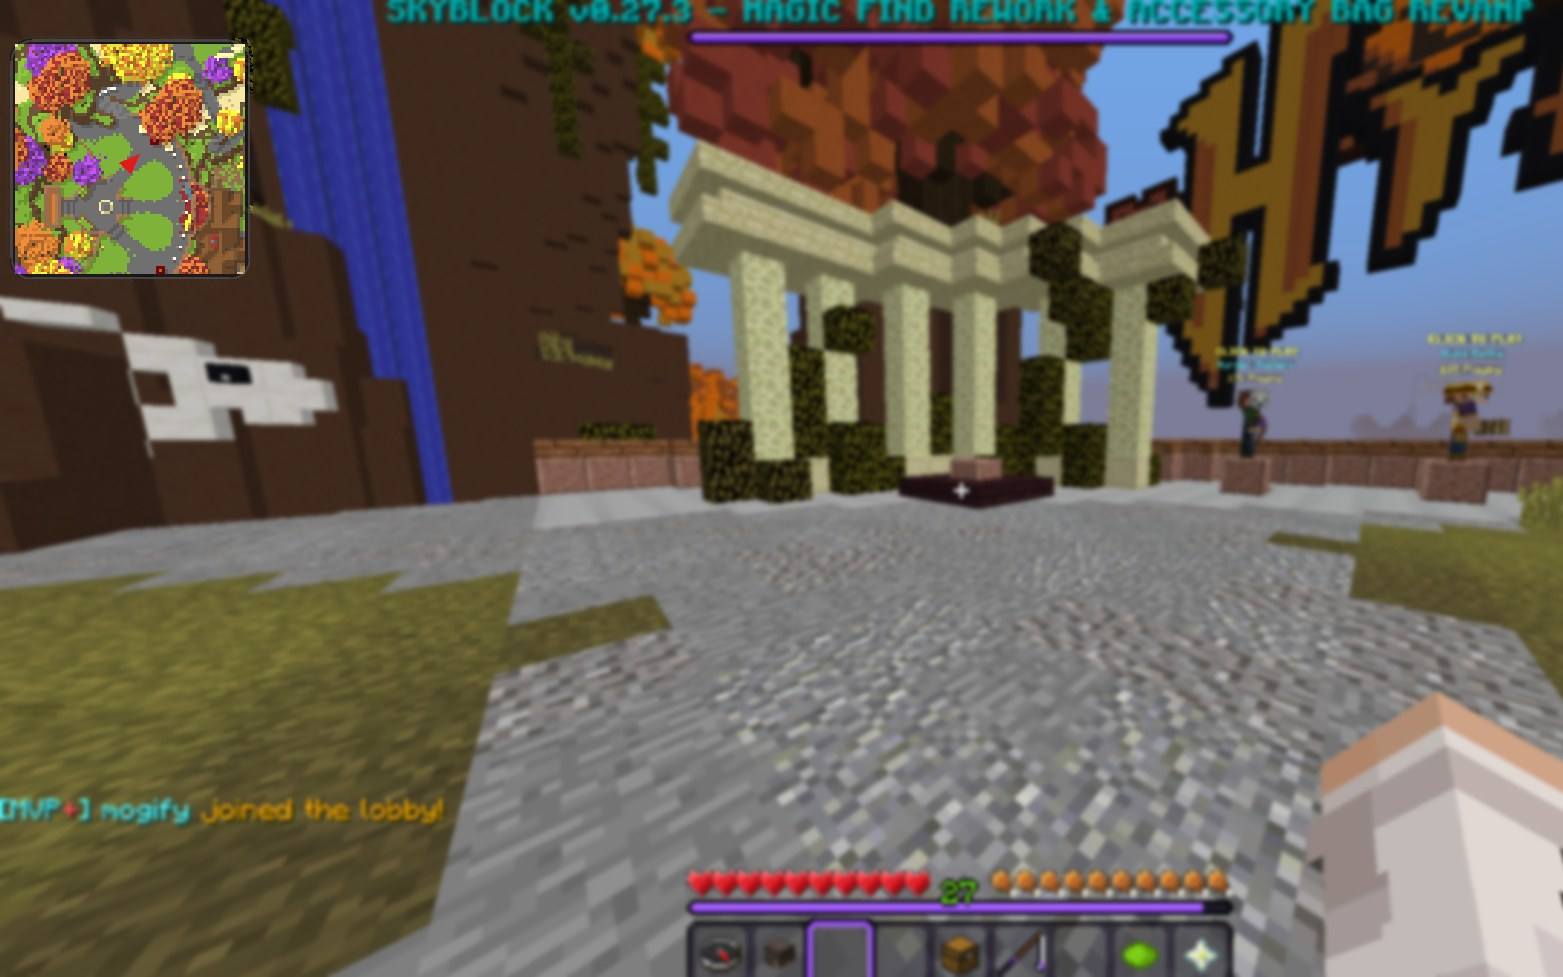
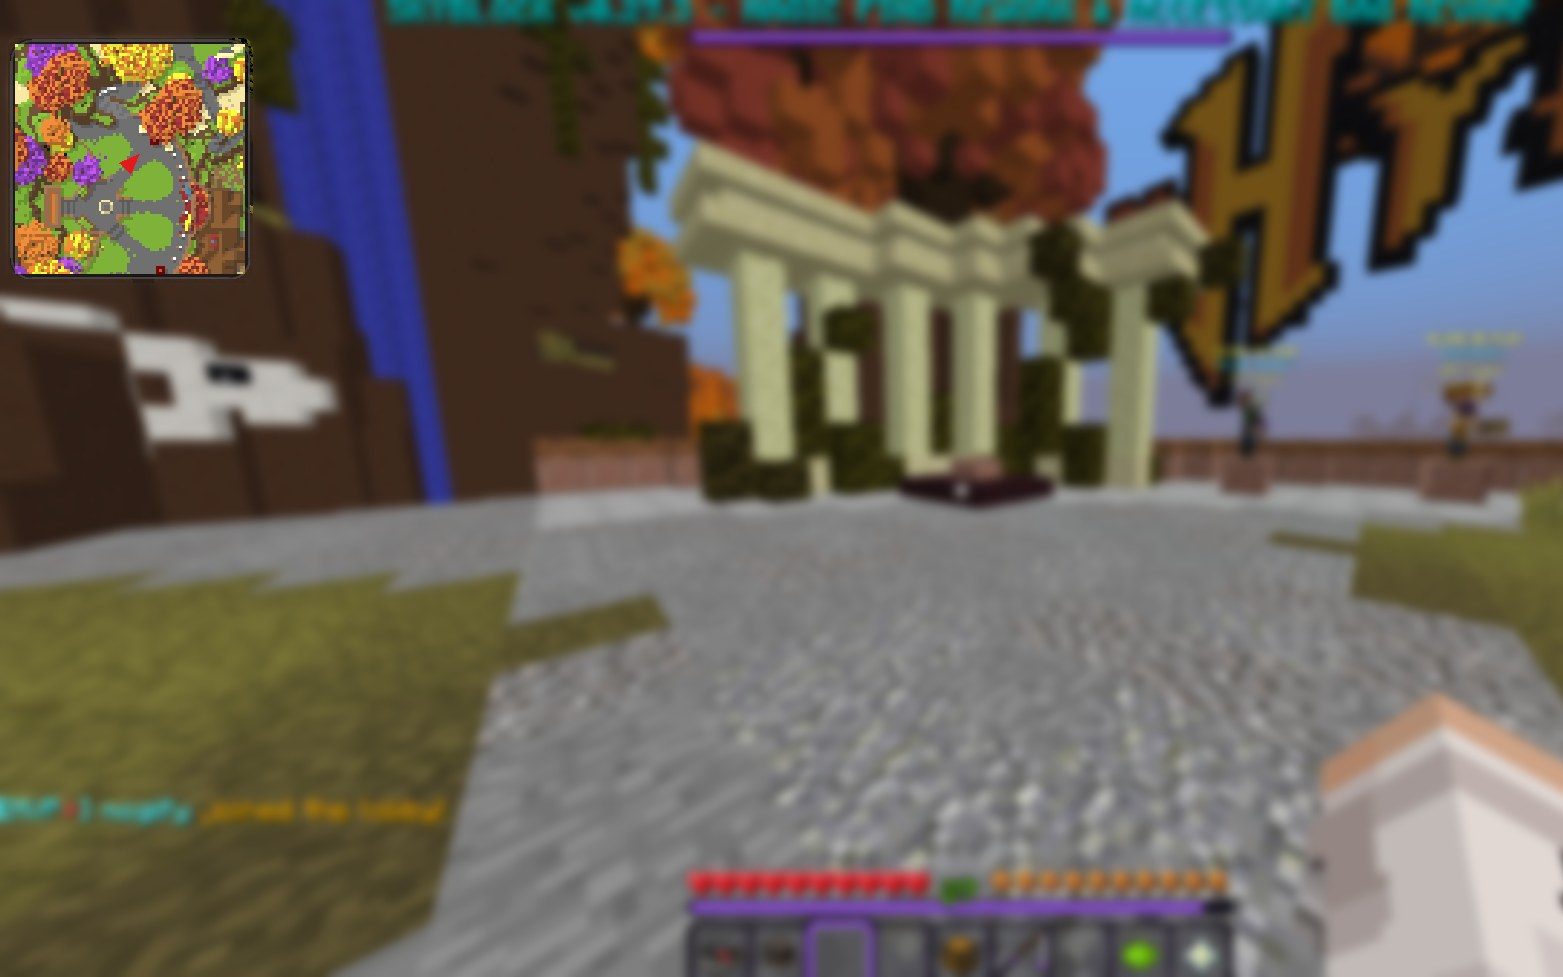
Site: menu shot with blur, stronger blur on minimap shot, showcase without Cinematic/Nearby/Time
Claude-Session: https://claude.ai/code/session_01AkdELL3XXDNhL6QYx5Eq6p

diff --git a/site/index.html b/site/index.html
@@ -11,13 +11,13 @@
 </div></header>
 
 <section class="xs" id="showcase"><div class="wrap"><div class="xh"><span class="kick rv">See it</span><h2 class="rv" style="--d:1">Built to look good in game.</h2><p class="rv" style="--d:2">A quick look at the launcher and some of the mods.</p></div>
-<div class="sc rv"><div class="sc-t" role="tablist"><button role="tab" data-c="One window for accounts, versions, news and settings.">Launcher<i></i></button><button role="tab" data-c="A clean minimap with waypoints, right on your HUD.">Minimap<i></i></button><button role="tab" data-c="Mark places and see them in the world from far away.">Waypoints<i></i></button><button role="tab" data-c="A smooth cinematic camera for clips and trailers.">Cinematic<i></i></button><button role="tab" data-c="Motion blur that you can tune or turn off.">Motion blur<i></i></button><button role="tab" data-c="See who is close to you at a glance.">Nearby<i></i></button><button role="tab" data-c="Change the time of day just for you.">Time<i></i></button></div><div class="sc-v"><img src="/launcher-home.jpg" alt="Launcher" width="960" height="600" ><img src="/mod-minimap.jpg?v=2" alt="Minimap" width="960" height="600" loading="lazy"><img src="/mod-waypoints.jpg" alt="Waypoints" width="960" height="600" loading="lazy"><img src="/mod-cinematic.jpg" alt="Cinematic" width="960" height="600" loading="lazy"><img src="/mod-blur.jpg" alt="Motion blur" width="960" height="600" loading="lazy"><img src="/mod-nearby.jpg" alt="Nearby" width="960" height="600" loading="lazy"><img src="/mod-time.jpg" alt="Time" width="960" height="600" loading="lazy"></div><p class="sc-c"></p></div></div></section>
+<div class="sc rv"><div class="sc-t" role="tablist"><button role="tab" data-c="One window for accounts, versions, news and settings.">Launcher<i></i></button><button role="tab" data-c="A clean minimap with waypoints, right on your HUD.">Minimap<i></i></button><button role="tab" data-c="Mark places and see them in the world from far away.">Waypoints<i></i></button><button role="tab" data-c="Motion blur that you can tune or turn off.">Motion blur<i></i></button></div><div class="sc-v"><img src="/launcher-home.jpg" alt="Launcher" width="960" height="600" ><img src="/mod-minimap.jpg?v=3" alt="Minimap" width="960" height="600" loading="lazy"><img src="/mod-waypoints.jpg" alt="Waypoints" width="960" height="600" loading="lazy"><img src="/mod-blur.jpg" alt="Motion blur" width="960" height="600" loading="lazy"></div><p class="sc-c"></p></div></div></section>
 
 <section class="xs" id="features"><div class="wrap">
 <div class="fr"><div class="ft rv"><span class="kick">Sleek</span><h3>A menu you will actually enjoy.</h3><p>Press Right Shift and everything is there: modules, HUD editor, cosmetics and friends. Drag the HUD where you want it.</p><ul><li>Drag and drop HUD editor</li><li>Presets for PvP, Build and Stream</li><li>English, Italian, Spanish and German</li></ul></div>
-<div class="fv rv" style="--d:2"><div class="glow"></div><div class="shot"><img src="/mod-hud.jpg?v=1" alt="HUD editor" width="1917" height="992" loading="lazy"></div></div></div>
+<div class="fv rv" style="--d:2"><div class="glow"></div><div class="shot"><img src="/mod-menu.jpg?v=1" alt="YA CLIENT menu" width="1917" height="982" loading="lazy"></div></div></div>
 <div class="fr rev"><div class="ft rv"><span class="kick">Everything included</span><h3>Every mod, for everyone.</h3><p>No tiers and no locked mods. Crystal PvP, BedWars, SkyWars, SMP and SkyBlock tools, all free in the base client.</p><ul><li>90+ mods, each one with its own settings</li><li>Custom OptiFine and MCPatcher skies</li><li>Hit hearts, combo coach and team viewer</li></ul></div>
-<div class="fv rv" style="--d:2"><div class="glow"></div><div class="shot"><img src="/mod-minimap.jpg?v=2" alt="Minimap mod" width="960" height="600" loading="lazy"></div></div></div>
+<div class="fv rv" style="--d:2"><div class="glow"></div><div class="shot"><img src="/mod-minimap.jpg?v=3" alt="Minimap mod" width="960" height="600" loading="lazy"></div></div></div>
 <div class="fr"><div class="ft rv"><span class="kick">Cosmetics</span><h3>Capes, wings and pets in real 3D.</h3><p>Show your style with cosmetics that are modeled in 3D, not flat pictures. Buy only what you want, one by one.</p><ul><li>Capes, wings, bands and pets</li><li>Your logo next to your name</li><li>Visible to every YA CLIENT player</li></ul></div>
 <div class="fv rv" style="--d:2"><div class="glow"></div><div class="shot"><img src="/b/sakura-poster.jpg" alt="Sakura cosmetic set" width="1600" height="900" loading="lazy"></div></div></div>
 </div></section>
